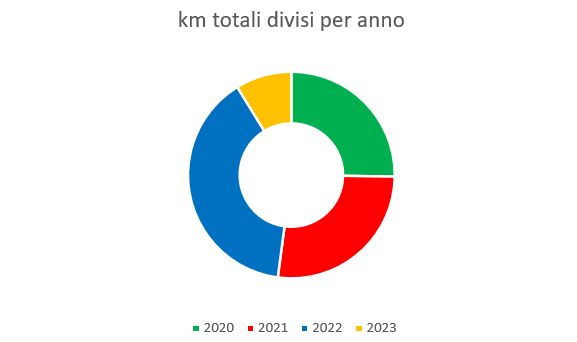
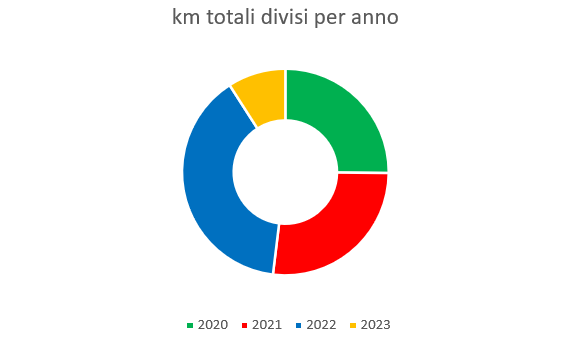
Add files via upload

diff --git a/Statistiche/Statistiche2023.html b/Statistiche/Statistiche2023.html
@@ -45,37 +45,37 @@
         <tr>
             <td>Gennaio</td>
             <td>127</td>
-            <td> 14,89%</td>
+            <td> 14,33%</td>
         </tr>
 
         <tr>
             <td>Febbraio</td>
             <td>148</td>
-            <td>17,35%</td>
+            <td>16,70%</td>
         </tr>
 
         <tr>
             <td>Marzo</td>
             <td>194</td>
-            <td>22,74%</td>
+            <td>21,90%</td>
         </tr>
 
         <tr>
             <td>Aprile</td>
             <td>103</td>
-            <td>12,08%</td>
+            <td>11,63%</td>
         </tr>
 
         <tr>
             <td>Maggio</td>
             <td>242</td>
-            <td>28,37%</td>
+            <td>27,31%</td>
         </tr>
 
         <tr>
             <td>Giugno</td>
-            <td>39</td>
-            <td>4,57%</td>
+            <td>72</td>
+            <td>8,13%</td>
         </tr>
 
     </table>
@@ -85,8 +85,8 @@
     <br>
 
     <br>
-    <p>totale km 853</p>
-    <p>km medi percorsi 53,31 km </p>
+    <p>totale km 886</p>
+    <p>km medi percorsi 52,12 km </p>
     <br>
     
 

diff --git a/Statistiche.html b/Statistiche.html
@@ -98,7 +98,7 @@
             </td>
 
             <td>
-                26,9%
+                26,8%
             </td>
         </tr>
 
@@ -112,7 +112,7 @@
             </td>
     
             <td>
-                39,1%
+                39,0%
             </td>
     
         </tr>
@@ -123,11 +123,11 @@
             </td>
     
             <td>
-                853
+                886
             </td>
     
             <td>
-                8,8%
+                9,1%
             </td>
     
         </tr>
@@ -139,8 +139,8 @@
     <br>
 
     <br>
-    <p>totale km fatti 9731</p>
-    <p>km medi percorsi 69,51 km </p>
+    <p>totale km fatti 9764</p>
+    <p>km medi percorsi 69,25 km </p>
     <br>
 
     <p class="corsivo">

diff --git a/Primavera/Primavera2023.html b/Primavera/Primavera2023.html
@@ -176,11 +176,22 @@
             <td>km</td>
         </tr>
 
+        <tr>
+            <td>10 Giugno</td>
+            <td>12</td>
+            <td><a
+                    href="https://www.komoot.com/it-it/tour/1161641851?share_token=ajUtsPyRrb8xWKAesExoAtFVq69uWL177hNTWB6xN7jzNB5XK6&ref=wtd">
+                    Basiliano + Bertiolo</a>
+            </td>
+            <td>33</td>
+            <td>km</td>
+        </tr>
+
     </table>
 
     <br>
-    <p> totale km 578</p>
-    <p>km medi percorsi 52,55</p>
+    <p> totale km 611</p>
+    <p>km medi percorsi 50,92</p>
     <br>
 </body>
 

diff --git a/Giri.html b/Giri.html
@@ -216,8 +216,8 @@
     </table>
 
     <br>
-    <p>totale km fatti 9731</p>
-    <p>km medi percorsi 69,51 km </p>
+    <p>totale km fatti 9764</p>
+    <p>km medi percorsi 69,25 km </p>
     <br>
 
     <br>

diff --git a/Primavera.html b/Primavera.html
@@ -90,7 +90,7 @@
                 </td>
     
                 <td>
-                    578
+                    611
                 </td>
             </tr>
 
